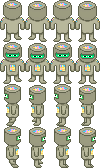
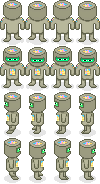
added shadow to player sprite

diff --git a/src/state/PlayState.cpp b/src/state/PlayState.cpp
@@ -47,8 +47,8 @@ bool PlayState::onEnter()
 
     // add the player
     TheGfxManager::Instance()->addTexture("../res/player.png", "player_sheet");
-    TheGfxManager::Instance()->addSprites("player_sheet","player_sprites",25,42,16);
-    m_player = new Player(new LoaderParams(sf::Vector2f(0,0),25,42,TheGfxManager::Instance()->getSprites("player_sprites")));
+    TheGfxManager::Instance()->addSprites("player_sheet","player_sprites",25,46,16);
+    m_player = new Player(new LoaderParams(sf::Vector2f(0,0),25,46,TheGfxManager::Instance()->getSprites("player_sprites")));
     m_gameObjects.push_back(m_player);
 
 
